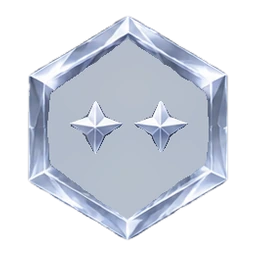
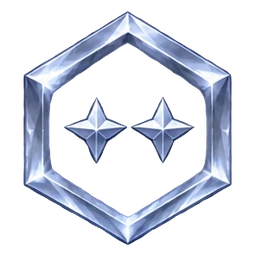
Use the owner's hollow rank emblems with a transparent middle.
Claude-Session: https://claude.ai/code/session_01TcQZBqkxUw3iNcovWih4PN

diff --git a/scripts/make-rank-emblems.py b/scripts/make-rank-emblems.py
@@ -1,4 +1,4 @@
-"""Cuts the owner's sheet of 18 rank emblems (3 rows of 6, transparent PNG) into public/ranks/rank-01..18.webp (256px) and calms the translucent face colour.
+"""Cuts the owner's sheet of 18 hollow rank emblems (3 rows of 6, transparent PNG with a noisy halo) into public/ranks/rank-01..18.webp (256px): keeps the solid body, drops the halo.
 
     python3 scripts/make-rank-emblems.py <sheet.png>      # needs Pillow, numpy, scipy
 """
@@ -7,50 +7,33 @@ from PIL import Image
 import numpy as np
 from scipy import ndimage as ndi
 im=Image.open(sys.argv[1]).convert('RGBA')
-A=np.array(im);a=A[...,3]
-m=a>200
-m=ndi.binary_opening(m,iterations=3)
-m=ndi.binary_closing(m,iterations=4)
-m=ndi.binary_fill_holes(m)
-lab,n=ndi.label(m)
-sizes=ndi.sum(m,lab,range(1,n+1))
-order=np.argsort(sizes)[::-1][:24]
+A=np.array(im);a=A[...,3].astype(float)
+
+core=a>=190
+core=ndi.binary_opening(core,iterations=1)
+lab,n=ndi.label(ndi.binary_closing(core,iterations=3))
+sizes=ndi.sum(core,lab,range(1,n+1))
+order=np.argsort(sizes)[::-1][:18]
 
 objs=ndi.find_objects(lab)
-items=[]
-for i in order:
-    sl=objs[i];items.append((i+1,sl,sizes[i]))
-
-import os
-A=A.copy()
-low=(a<225)
-for i,sl,sz in items:
-    reg=(lab==i)&low
-    if reg.sum()<50: continue
-    med=np.median(A[...,:3][reg],axis=0)
-    w=reg.astype(float)
-    bl=np.zeros(A[...,:3].shape)
-    for c in range(3):
-        bl[...,c]=ndi.gaussian_filter(A[...,c]*w,14)/np.maximum(ndi.gaussian_filter(w,14),1e-3)
-    for c in range(3):
-        v=0.8*med[c]+0.2*bl[...,c]
-        A[...,c]=np.where(reg,v,A[...,c]).astype(np.uint8)
-cells=[]
-for i,sl,s_ in items: cells.append((i,sl))
-cells.sort(key=lambda c:(0 if c[1][0].start<200 else 1 if c[1][0].start<450 else 2, c[1][1].start))
-out='public/ranks'
-S=256
+cells=[(i+1,objs[i]) for i in order]
+cells.sort(key=lambda c:(0 if c[1][0].start<280 else 1 if c[1][0].start<560 else 2, c[1][1].start))
+al=np.clip((a-170)/70,0,1)
+S=256;out='public/ranks'
 for k,(i,sl) in enumerate(cells,1):
-    mm=ndi.binary_erosion(lab==i,iterations=1)
-    al=ndi.gaussian_filter(mm.astype(float),0.8)
-    al=np.clip(al*1.0,0,1)
-    y0,y1,x0,x1=sl[0].start,sl[0].stop,sl[1].start,sl[1].stop
-    p=8
-    rgb=A[y0-p:y1+p,x0-p:x1+p,:3]
-    alc=(al[y0-p:y1+p,x0-p:x1+p]*255).astype(np.uint8)
-    tile=Image.fromarray(np.dstack([rgb,alc]),'RGBA')
-    w,h=tile.size;sc=(S-16)/max(w,h)
-    tile=tile.resize((round(w*sc),round(h*sc)),Image.LANCZOS)
-    can=Image.new('RGBA',(S,S),(0,0,0,0));can.paste(tile,((S-tile.width)//2,(S-tile.height)//2))
+    reg=ndi.binary_dilation(lab==i,iterations=6)  # keep only near this emblem's body
+    # also keep inner parts (stars) that are separate comps: use bounding box region of the emblem's hull
+    y0,y1,x0,x1=sl[0].start-4,sl[0].stop+4,sl[1].start-4,sl[1].stop+4
+    box=np.zeros(a.shape,bool);box[y0:y1,x0:x1]=True
+    m=al*(box)
+    # drop specks: components of core inside the box smaller than 60px
+    c2=(m>0.5)
+    l2,n2=ndi.label(c2);sz=ndi.sum(c2,l2,range(1,n2+1))
+    keep=np.isin(l2,[j+1 for j,s in enumerate(sz) if s>=60])
+    keep=ndi.binary_dilation(keep,iterations=2)
+    m=m*keep
+    rgb=A[y0:y1,x0:x1,:3];alc=(m[y0:y1,x0:x1]*255).astype(np.uint8)
+    t=Image.fromarray(np.dstack([rgb,alc]),'RGBA');w,h=t.size;sc=(S-16)/max(w,h)
+    t=t.resize((round(w*sc),round(h*sc)),Image.LANCZOS)
+    can=Image.new('RGBA',(S,S),(0,0,0,0));can.paste(t,((S-t.width)//2,(S-t.height)//2))
     can.save(f'{out}/rank-{k:02d}.webp',quality=92,method=6)
-for k in range(18):

diff --git a/CLAUDE.md b/CLAUDE.md
@@ -352,4 +352,4 @@ Sending LX (owner request 2026-11-07, "make LX transferable, with a fee"): Walle
 
 Old square frames deleted (owner request 2026-11-07, "delete all the old square frames"): the files in `public/frames/` (all but the round `frog-*` set and their masks) and their `FRAMES`, `FRAME_GLOW` and `ACCENTS` entries are gone, and the API's catalogue rows were deleted (`legacyxxx-backend/supabase/legacy_x_old_frames_deleted.sql`). The earned rows `rank-*`, `server-booster`, `booster-*` and `founder` stay in the table, switched off, because the rank trigger and the booster code still write them.
 
-Rank emblems (owner request 2026-11-07, "make it like this", the owner's sheet of 18 hexagon badges: silver, blue, violet, red, gold with laurels): `public/ranks/rank-01.webp` … `rank-18.webp` (256px, transparent) replace the old SVGs; `rankImageSrc` points at them. Cut by `scripts/make-rank-emblems.py <sheet.png>`. The Discord bot keeps its own SVG copies in `assets/ranks/` for rank-up pictures until they are swapped too.
+Rank emblems (owner request 2026-11-07, "make it like this", the owner's sheet of 18 hollow hexagon badges (transparent middle): silver, blue, violet, red, gold with laurels): `public/ranks/rank-01.webp` … `rank-18.webp` (256px, transparent) replace the old SVGs; `rankImageSrc` points at them. Cut by `scripts/make-rank-emblems.py <sheet.png>`. The Discord bot keeps its own SVG copies in `assets/ranks/` for rank-up pictures until they are swapped too.
